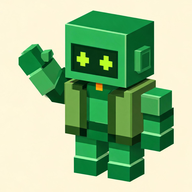
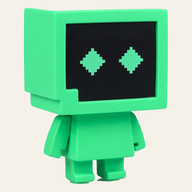
feat: 桌面图标换成实物照片的绿色机器人，SW 升到 v9
用户提供了 Trae宝 实物照片，改用它做图标：从照片里抠出机器人
（去掉亚克力底座和阴影），贴到 App 米色底上出 192/512 两张，
另存一份透明底立绘。图片走缓存优先，必须升 SW 版本号才刷得到。

diff --git a/test/sw.test.js b/test/sw.test.js
@@ -34,7 +34,7 @@ test('图片类资源缓存优先、网络兜底', () => {
 test('缓存版本号会随发布递增', () => {
   const m = sw.match(/const CACHE = 'traebao-v(\d+)'/);
   assert.ok(m, 'sw.js 里应有可识别的 CACHE 版本号');
-  assert.ok(Number(m[1]) >= 8, 'CACHE 版本号应已升级到 v8 或更高');
+  assert.ok(Number(m[1]) >= 9, 'CACHE 版本号应已升级到 v9 或更高');
 });
 
 test('旧版本缓存会在激活时被清掉', () => {
@@ -53,7 +53,7 @@ test('Service Worker 用版本化地址注册，旧手机也刷得到新版', ()
   // 浏览器可能不重新拉。加 ?v=N 让地址变化，强制当成全新注册。
   const m = html.match(/serviceWorker\.register\('sw\.js\?v=(\d+)'/);
   assert.ok(m, 'index.html 里应有用 sw.js?v=N 的版本化注册');
-  assert.ok(Number(m[1]) >= 8, '注册地址的版本号应与 SW 版本一致');
+  assert.ok(Number(m[1]) >= 9, '注册地址的版本号应与 SW 版本一致');
 
   // 注册脚本必须在 index.html 内联，不能放在 main.js 里
   // （main.js 会被旧版缓存挡住，注册代码就换不成了）

diff --git a/index.html b/index.html
@@ -78,14 +78,14 @@
 <script>
 // 注册 Service Worker。
 //
-// 这里用带版本号的地址（sw.js?v=8），而不是直接写 sw.js：
+// 这里用带版本号的地址（sw.js?v=9），而不是直接写 sw.js：
 // 地址变了浏览器就会当成一次全新的注册去下载安装，
 // 哪怕手机里装的是很老的版本，也能被换掉。
 // 放在 HTML 里而不是 main.js 里，是因为 HTML 走网络优先，
 // 每次拿到的都是最新的这段代码，不会被旧版 JS 挡住。
 if ('serviceWorker' in navigator) {
   window.addEventListener('load', function () {
-    navigator.serviceWorker.register('sw.js?v=8', { updateViaCache: 'none' })
+    navigator.serviceWorker.register('sw.js?v=9', { updateViaCache: 'none' })
       .catch(function () { /* 本地 file:// 打开时会失败，忽略 */ });
   });
 }

diff --git a/sw.js b/sw.js
@@ -13,12 +13,12 @@
 //
 // 顺带解决「用户手机上装的是旧版本、永远刷不到新版」：
 //   · index.html 里有一段内联脚本，用带版本号的地址注册 sw.js
-//     （sw.js?v=8）。地址变了浏览器就会当成新注册去装，
+//     （sw.js?v=9）。地址变了浏览器就会当成新注册去装，
 //     不管 HTML 里引用的 main.js 是不是旧的。
 //   · index.html 在旧版 SW 下也是网络优先，所以这段内联脚本
 //     每次拿到的都是最新的。
 
-const CACHE = 'traebao-v8';
+const CACHE = 'traebao-v9';
 
 // 离线时要用到的全部文件
 const SHELL = [

diff --git a/tools/verify_live.js b/tools/verify_live.js
@@ -55,8 +55,8 @@ async function main() {
     const keys = await caches.keys();
     return { regs: regs.length, keys };
   });
-  check('1. Service Worker 已注册，缓存只有 traebao-v8',
-    swState.regs > 0 && swState.keys.length === 1 && swState.keys[0] === 'traebao-v8',
+  check('1. Service Worker 已注册，缓存只有 traebao-v9',
+    swState.regs > 0 && swState.keys.length === 1 && swState.keys[0] === 'traebao-v9',
     JSON.stringify(swState));
 
   // 2. 填错模型名 → 测试连接应报 404 + 上游错误码

diff --git a/tools/make_icon_from_photo.py b/tools/make_icon_from_photo.py
@@ -1,0 +1,122 @@
+#!/usr/bin/env python3
+"""把实物照片里的 Trae宝 抠出来，做成 PWA 桌面图标。
+
+照片里的机器人是饱和的绿色，背景是浅灰渐变，中间还垫着一个透明亚克力底座。
+做法：
+1. 用「绿色 + 深色（黑色屏幕）」两张掩膜取并集，把机器人整体框出来
+2. 连通域只留最大的一块，丢掉底座、阴影这些零散区域
+3. 填掉屏幕那块空洞，做软边（抗锯齿）
+4. 抠成透明底，再贴到 App 的米色底上出 192 / 512 两张图标
+"""
+import os
+
+import numpy as np
+from PIL import Image
+from scipy import ndimage
+
+SRC = "/workspace/.uploads/c12098b3-a6fb-4790-af44-1ea47b06d346_hailuo_1793452602.jpeg"
+ICON_DIR = "/workspace/traebao-pwa/icons"
+
+# App 的米色纸底，和 app.css / manifest 的主题色一致
+APP_BG = (245, 241, 232)
+
+
+def load():
+    return Image.open(SRC).convert("RGB")
+
+
+def robot_mask(arr):
+    """返回机器人的布尔掩膜（含绿色外壳和黑色屏幕）。"""
+    r = arr[:, :, 0].astype(int)
+    g = arr[:, :, 1].astype(int)
+    b = arr[:, :, 2].astype(int)
+
+    # 绿色外壳：绿通道明显高于红蓝
+    green = (g > 100) & (g - r > 50) & (g - b > 25)
+    # 黑色屏幕：三个通道都很低
+    dark = arr.max(axis=2) < 115
+
+    mask = green | dark
+    # 亚克力底座和地面阴影有零星的暗色/偏绿像素，先按绿色分量做一次连通域，
+    # 只保留与绿色主体相连的部分，底座自然被切掉
+    lab, n = ndimage.label(green)
+    if n:
+        sizes = ndimage.sum(green, lab, range(1, n + 1))
+        body = (lab == (np.argmax(sizes) + 1))
+        # 屏幕在绿色框内部，是独立的一团暗色，但被绿色包着 —— 用填洞补回来
+        filled = ndimage.binary_fill_holes(body)
+        mask = filled | dark
+        lab2, n2 = ndimage.label(mask)
+        if n2:
+            sizes2 = ndimage.sum(mask, lab2, range(1, n2 + 1))
+            mask = lab2 == (np.argmax(sizes2) + 1)
+    return mask
+
+
+def cutout(img):
+    """抠出带透明通道的机器人（软边）。"""
+    arr = np.asarray(img).astype(int)
+    mask = robot_mask(arr)
+    if not mask.any():
+        raise SystemExit("没抠到机器人")
+
+    ys, xs = np.where(mask)
+    # 裁剪范围往外多留一点，别切到手脚
+    pad = 6
+    x0 = max(0, xs.min() - pad)
+    x1 = min(img.width, xs.max() + pad + 1)
+    y0 = max(0, ys.min() - pad)
+    y1 = min(img.height, ys.max() + pad + 1)
+
+    sub = np.asarray(img.crop((x0, y0, x1, y1))).copy()
+    sub_mask = mask[y0:y1, x0:x1]
+
+    # 边缘一圈的背景像素会被缩放时带成灰边，先用邻近的主体色替换掉
+    rgb = sub.astype(float)
+    if sub_mask.any():
+        fill = np.median(rgb[sub_mask], axis=0)
+    else:
+        fill = np.array(APP_BG, dtype=float)
+    # 距离主体 1~3 像素的环带，颜色往主体色靠
+    ring = ndimage.binary_dilation(sub_mask, iterations=3) & ~sub_mask
+    if ring.any():
+        near = ndimage.distance_transform_edt(~sub_mask)
+        weight = np.clip(1.0 - near[ring] / 3.0, 0, 1)[:, None]
+        rgb[ring] = rgb[ring] * (1 - weight) + fill * weight
+
+    alpha = ndimage.distance_transform_edt(sub_mask)
+    # 边缘 1.5 像素内做渐变，得到软边
+    alpha = np.clip(alpha / 1.5, 0, 1) * 255
+
+    out = np.dstack([rgb, alpha]).astype(np.uint8)
+    return Image.fromarray(out, "RGBA"), (x0, y0, x1, y1)
+
+
+def make_icon(cut, size, bg=APP_BG, pad_ratio=0.04):
+    """把抠好的机器人居中放进正方形米色底。"""
+    w, h = cut.size
+    side = int(max(w, h) * (1 + pad_ratio * 2))
+    canvas = Image.new("RGBA", (side, side), bg + (255,))
+    canvas.paste(cut, ((side - w) // 2, (side - h) // 2), cut)
+    canvas = canvas.convert("RGB").resize((size, size), Image.LANCZOS)
+    out_path = os.path.join(ICON_DIR, f"icon-{size}.png")
+    canvas.save(out_path, "PNG")
+    print("写出", out_path, canvas.size)
+
+
+def main():
+    img = load()
+    cut, box = cutout(img)
+    print("抠图范围", box, cut.size)
+
+    # 透明底立绘（存一份大图）
+    cut_path = os.path.join(ICON_DIR, "trae-robot-green.png")
+    cut.resize((1024, 1024), Image.LANCZOS).save(cut_path, "PNG")
+    print("写出", cut_path)
+
+    make_icon(cut, 192)
+    make_icon(cut, 512)
+
+
+if __name__ == "__main__":
+    main()

diff --git a/README.md b/README.md
@@ -55,6 +55,7 @@ traebao-pwa/
 ├── test/                   # Node 内置测试，零依赖
 ├── tools/                  # 辅助脚本（mock 服务器、图标生成、端到端验收）
 │   ├── mock_server.py      # 本地假模型服务
+│   ├── make_icon_from_photo.py  # 从实物照片抠图生成桌面图标
 │   ├── verify.js           # 标准端到端验收（7 项）
 │   ├── verify_xiaomi.js    # 小米浏览器场景验收（8 项）
 │   ├── verify_xiaomi_playwright.js  # 小米浏览器场景验收（Playwright 版，8 项）
